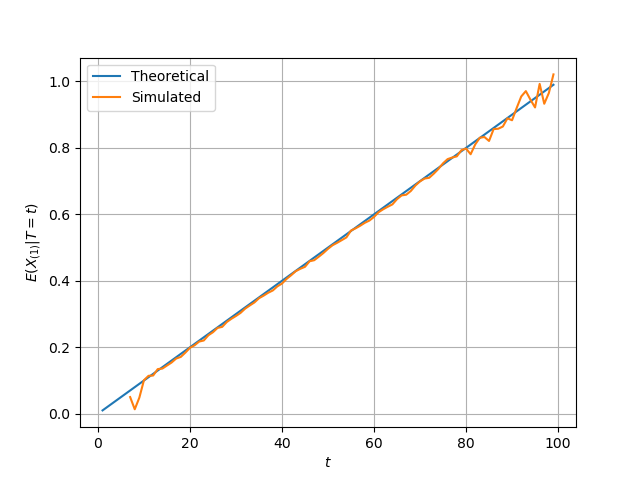
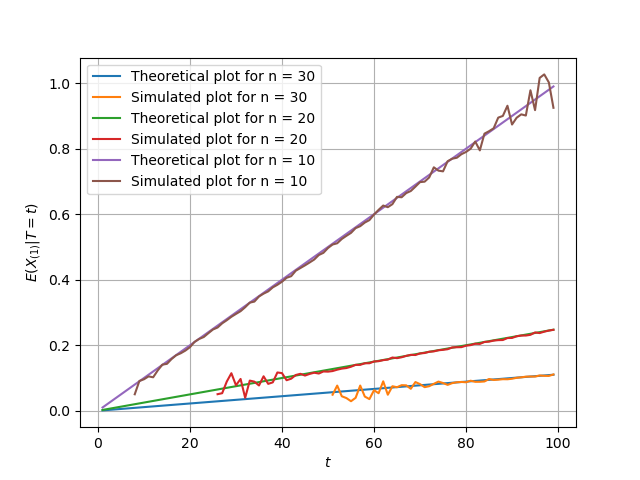
Plotted graph for 3 values of n

diff --git a/Assignment6/Codes/Assignment6.py b/Assignment6/Codes/Assignment6.py
@@ -2,14 +2,19 @@ import numpy as np
 import math
 import matplotlib.pyplot as plt
 
-
-theta = 5.0
-n = 10
-sum_arr = np.zeros(200)
-count_arr = np.zeros(200)
-res_arr = np.zeros(200)
 simlen = int(1e6)
-s = np.random.exponential(theta, (simlen, n))
+
+theta = 4.5
+
+n1 = 30     
+n2= 20      
+n3 = 10     #three values of n
+
+#n1
+sum_arr = np.zeros(1000)
+count_arr = np.zeros(1000)
+res_arr = np.zeros(1000)
+s = np.random.exponential(theta, (simlen, n1))
 for i in range(simlen):
     x1 = min(s[i])
     t = sum(s[i])
@@ -20,7 +25,54 @@ for i in range(200):
     res_arr[i] = (sum_arr[i])/(count_arr[i])
 
 def func(x):
-    return x/(n*n)
+    return x/(n1*n1)
+
+vec_func = np.vectorize(func)
+x = np.arange(1, 100, 1)
+
+plt.plot(x, vec_func(x))
+plt.plot(x, res_arr[x])
+
+
+#n2
+sum_arr = np.zeros(500)
+count_arr = np.zeros(500)
+res_arr = np.zeros(500)
+s = np.random.exponential(theta, (simlen, n2))
+for i in range(simlen):
+    x1 = min(s[i])
+    t = sum(s[i])
+    sum_arr[math.ceil(t)]+= x1
+    count_arr[math.ceil(t)]+=1
+
+for i in range(150):
+    res_arr[i] = (sum_arr[i])/(count_arr[i])
+
+def func(x):
+    return x/(n2*n2)
+
+vec_func = np.vectorize(func)
+x = np.arange(1, 100, 1)
+
+plt.plot(x, vec_func(x))
+plt.plot(x, res_arr[x])
+
+#n3
+sum_arr = np.zeros(500)
+count_arr = np.zeros(500)
+res_arr = np.zeros(500)
+s = np.random.exponential(theta, (simlen, n3))
+for i in range(simlen):
+    x1 = min(s[i])
+    t = sum(s[i])
+    sum_arr[math.ceil(t)]+= x1
+    count_arr[math.ceil(t)]+=1
+
+for i in range(100):
+    res_arr[i] = (sum_arr[i])/(count_arr[i])
+
+def func(x):
+    return x/(n3*n3)
 
 vec_func = np.vectorize(func)
 x = np.arange(1, 100, 1)
@@ -29,6 +81,6 @@ plt.plot(x, vec_func(x))
 plt.plot(x, res_arr[x])
 plt.xlabel("$t$")
 plt.ylabel("$E(X_{(1)}|T=t)$")
-plt.legend(["Theoretical", "Simulated"])
+plt.legend(["Theoretical plot for n = 30", "Simulated plot for n = 30", "Theoretical plot for n = 20", "Simulated plot for n = 20", "Theoretical plot for n = 10", "Simulated plot for n = 10"])
 plt.grid()
 plt.show()
